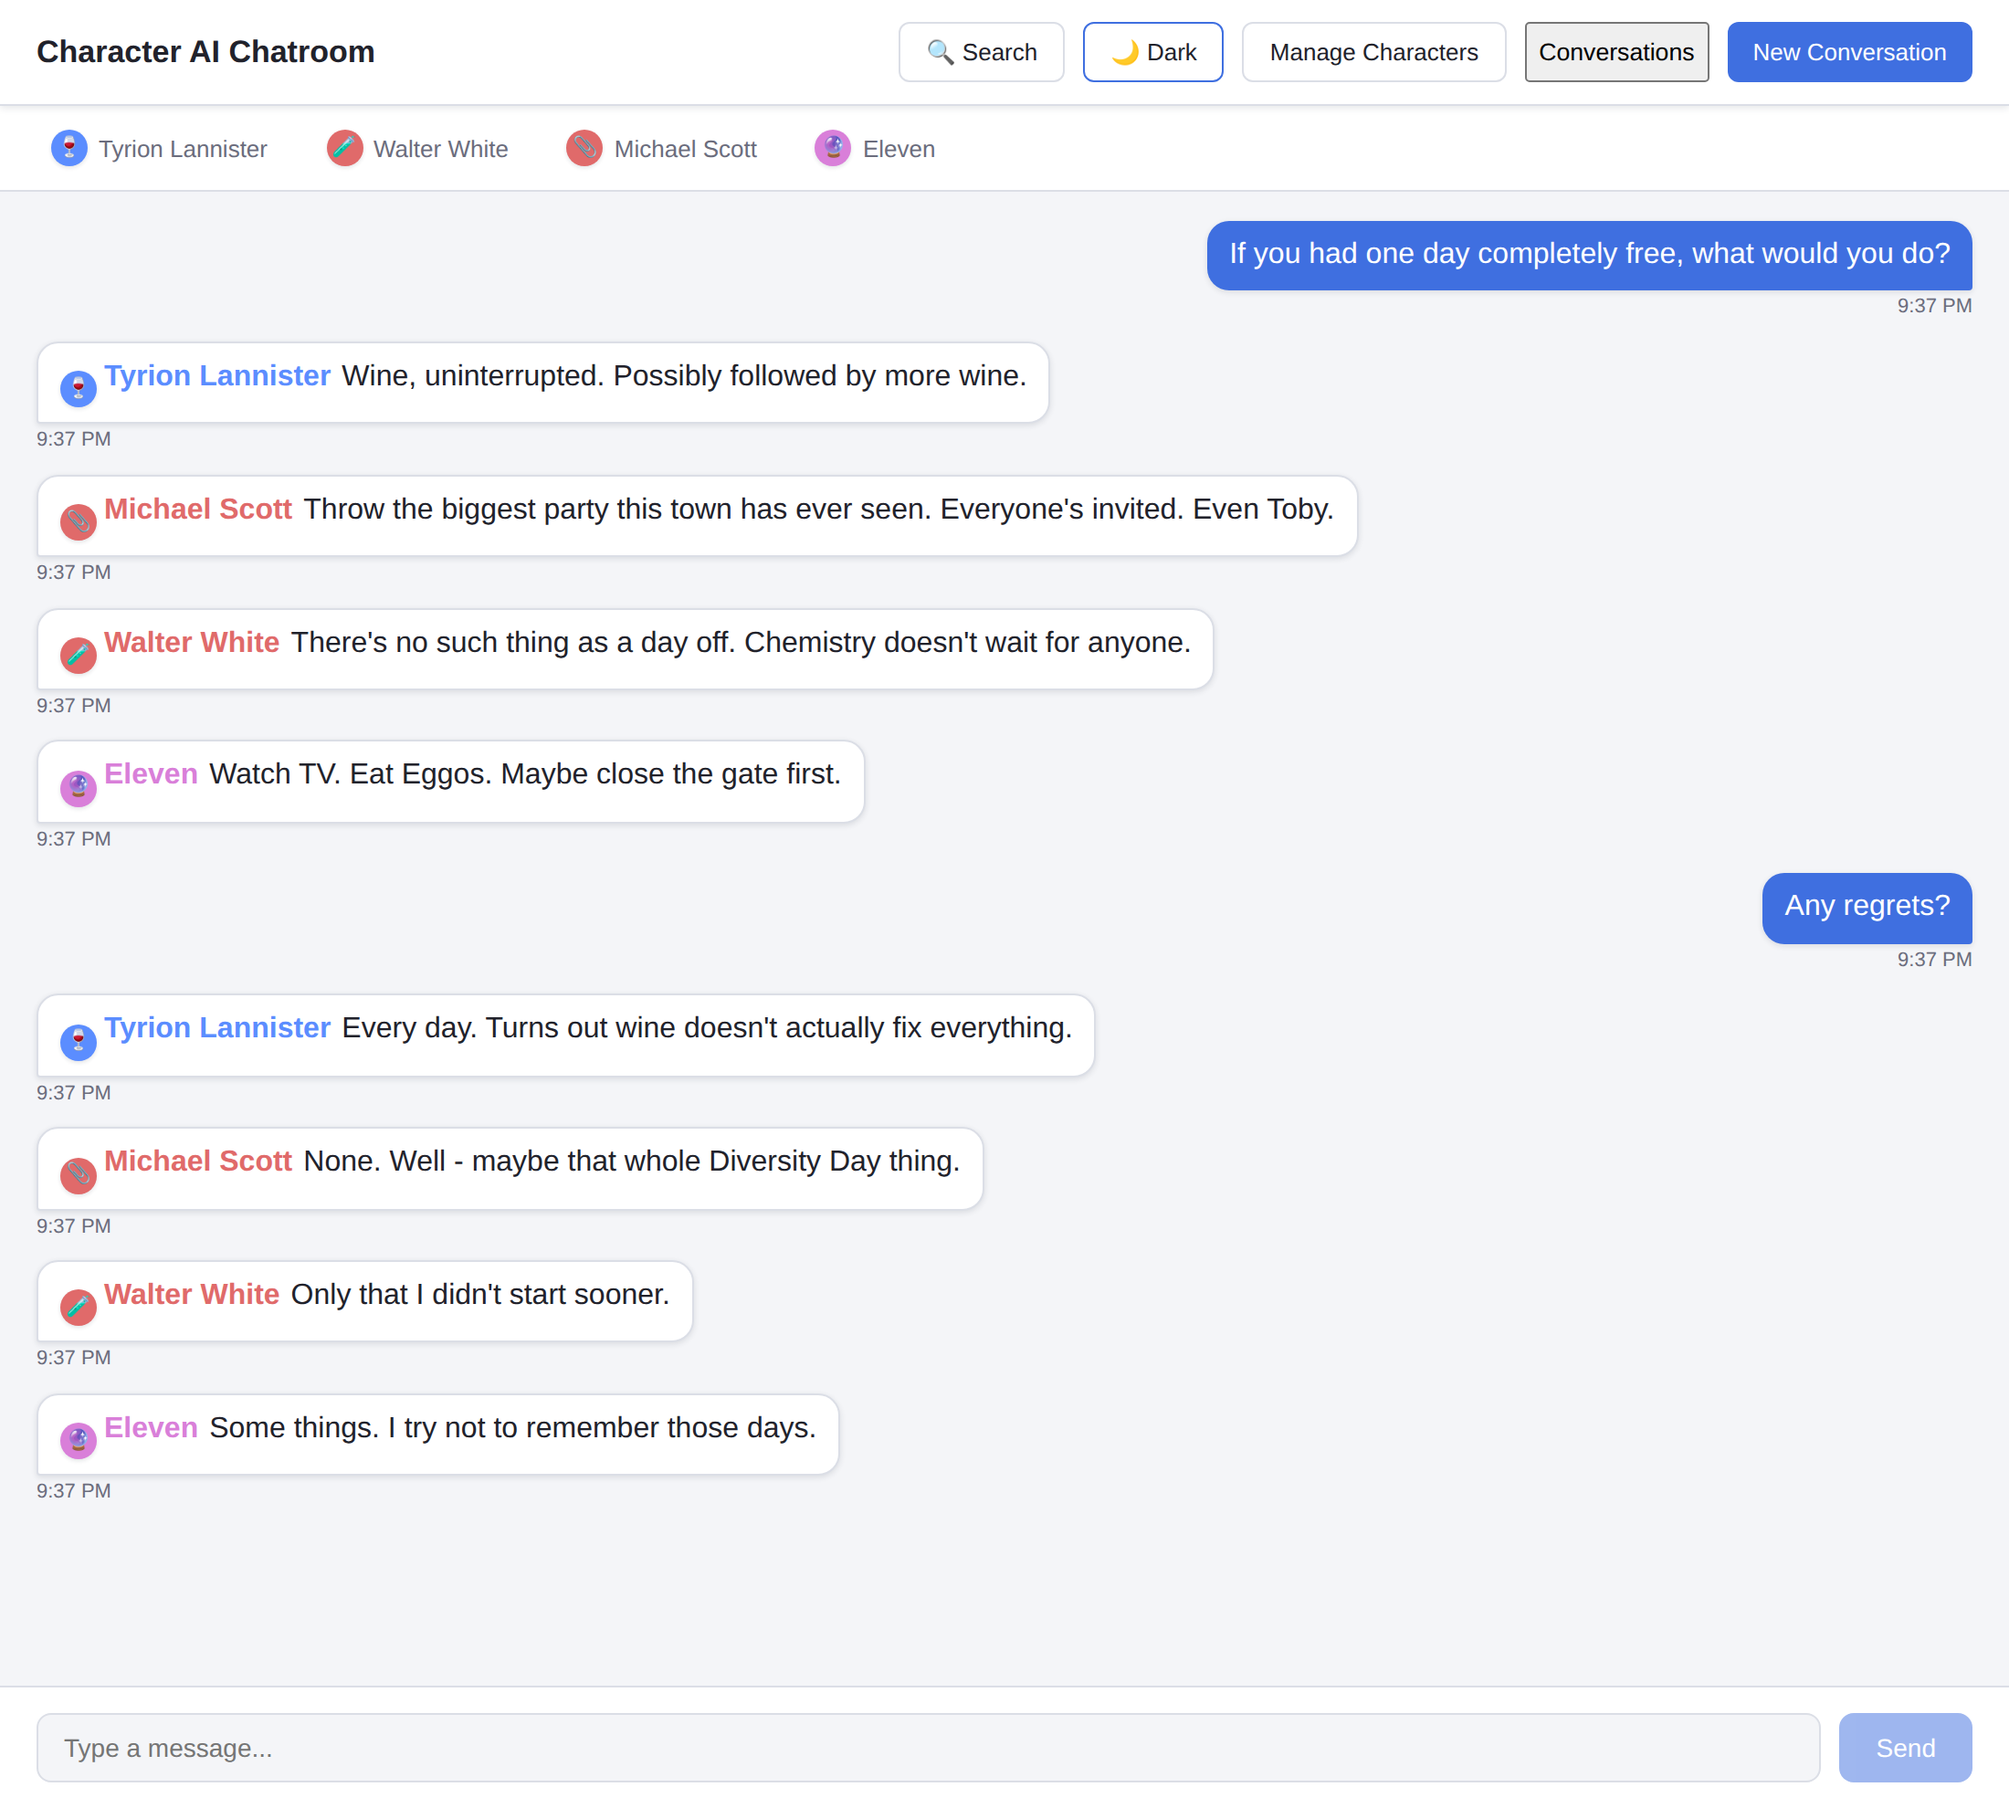
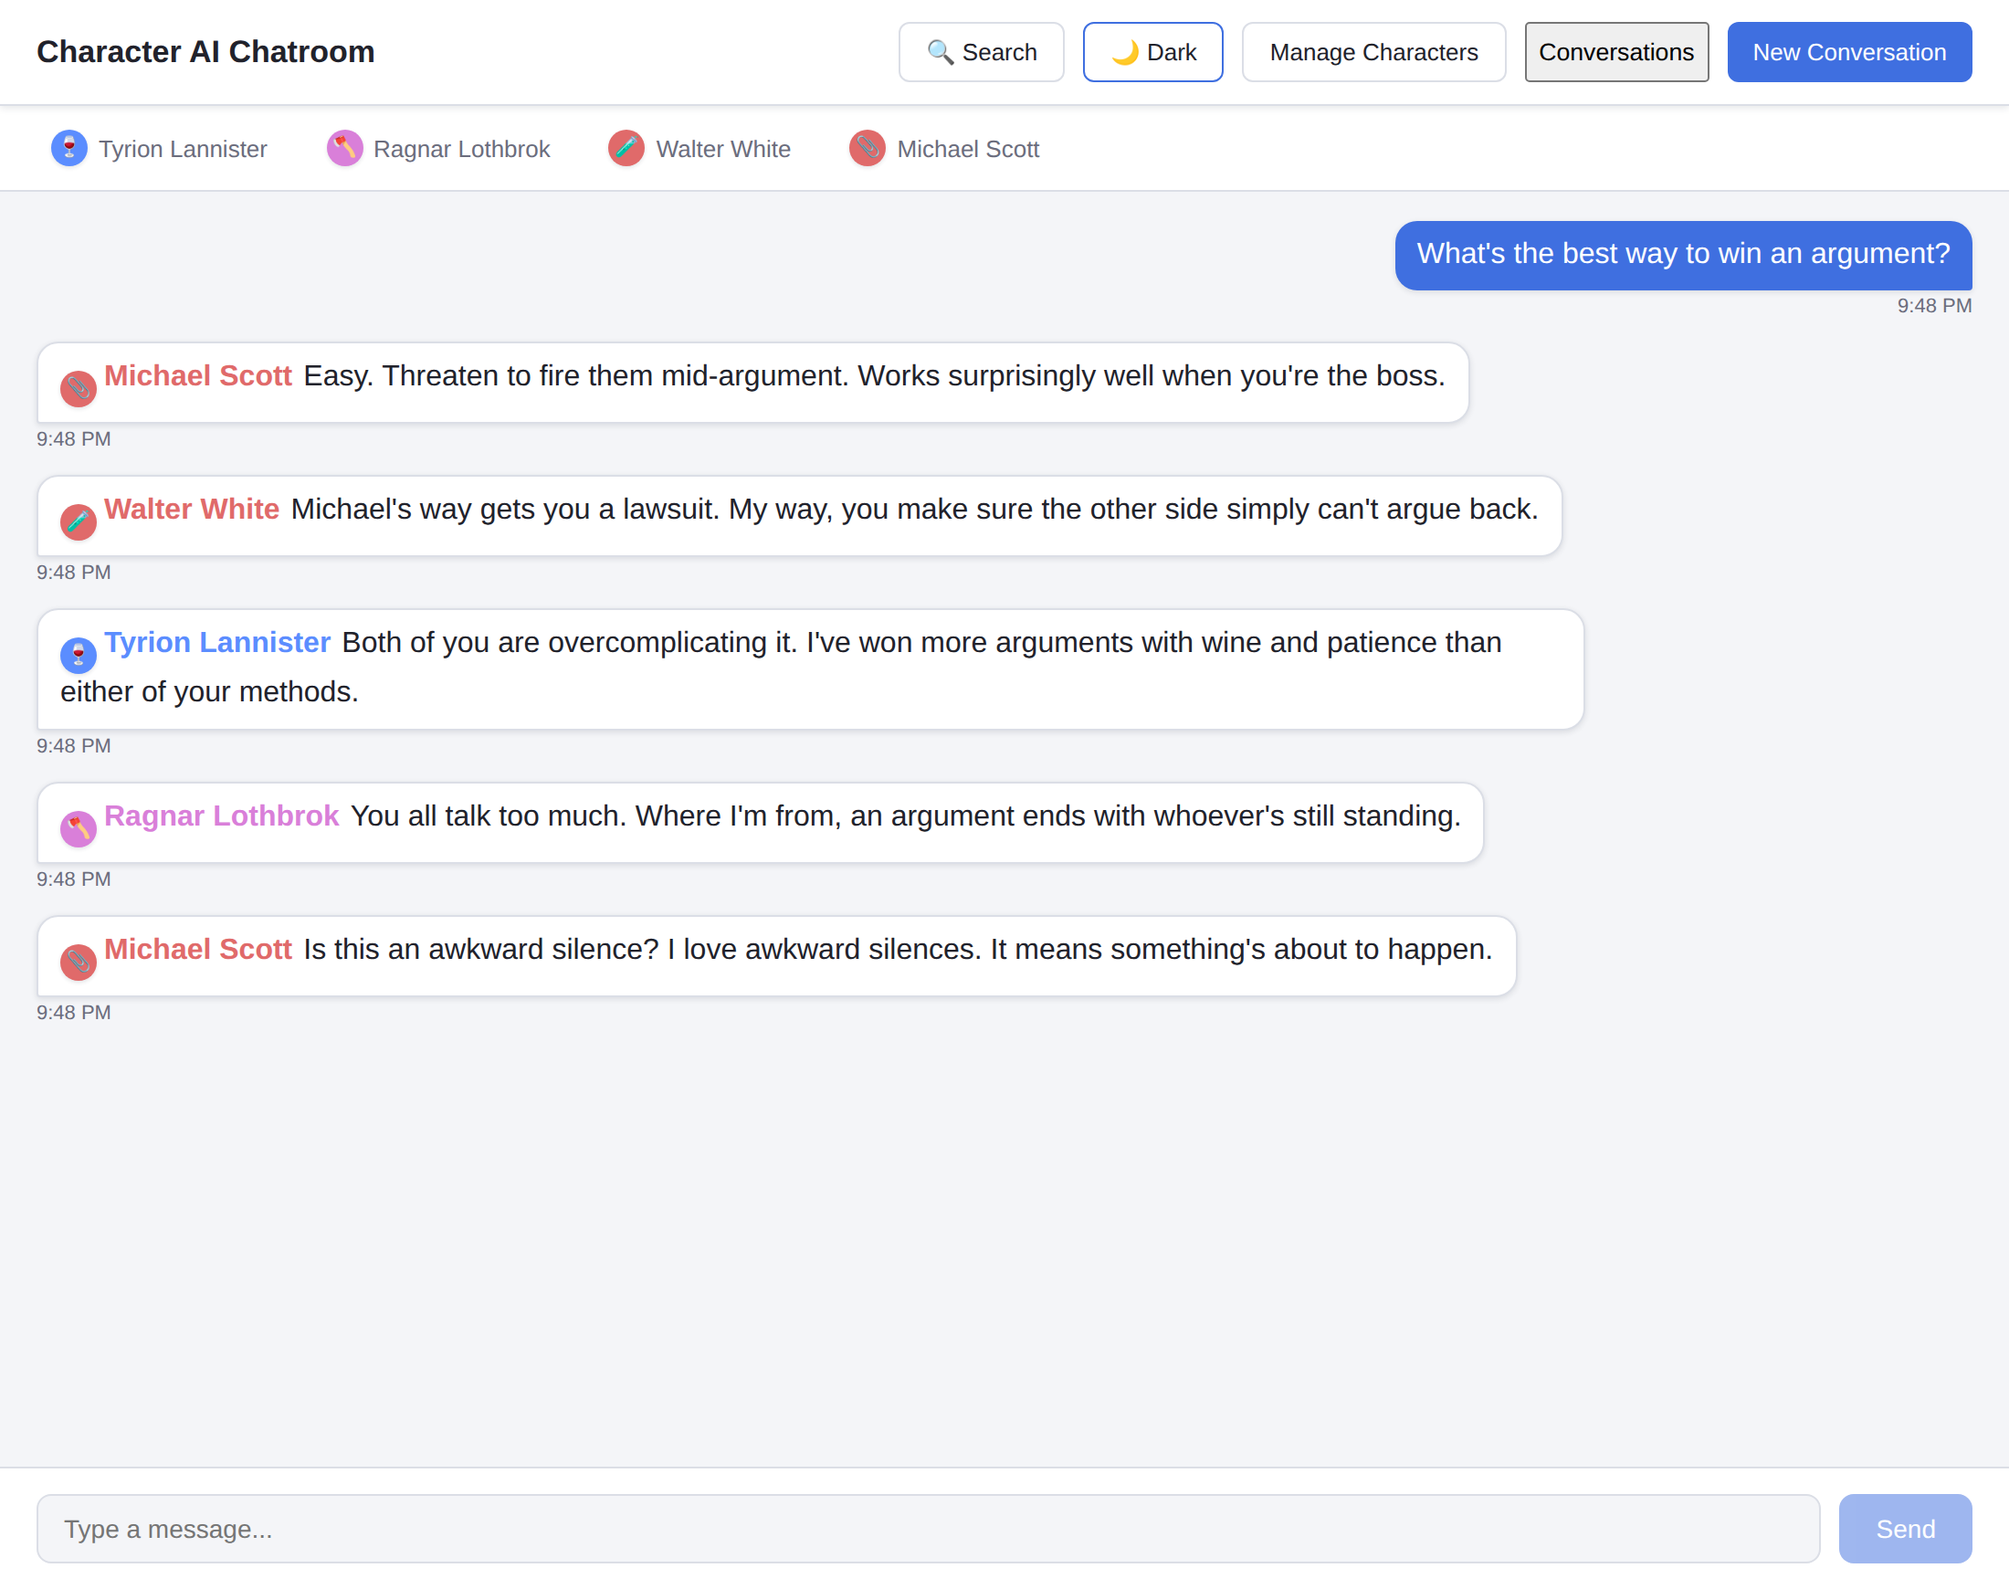
Rework README screenshots: characters replying to each other, idle chatter, and character management
Swaps Eleven out of the showcase cast for Ragnar Lothbrok and replaces
the "each character answers the user" screenshot with a scripted
back-and-forth where each reply explicitly addresses the one before it
(Walter references "Michael's way," Tyrion calls out "both of you,"
Ragnar dismisses "you all") - so the screenshot demonstrates characters
actually conversing with each other, not four independent answers to
the same prompt.

Adds two new screenshots for features that weren't shown before:
- screenshots/idle_chatter.png - the same conversation with Michael
  Scott spontaneously breaking the silence after the round ends, with
  no new message from the user - demonstrating the idle-chatter feature
  described in the "Characters can also speak up on their own" section.
- screenshots/manage_characters.png - the Manage Characters modal with
  Vikings expanded, showing Ragnar Lothbrok's entry and its Remove
  button (distinct from character_picker.png, which shows the New
  Conversation picker instead).

Regenerated search.png and light_theme.png against the same new
conversation/cast for consistency across all six images.

Captured by mocking the router and character-reply generation as
before (hand-written in-character lines for the banter round, a single
scripted idle line gated to fire only once despite the shortened
IDLE_MIN/MAX_SECONDS used to trigger it quickly for the screenshot),
driven with Playwright, with the viewport temporarily grown so the full
[…]

diff --git a/README.md b/README.md
@@ -6,13 +6,19 @@ Game of Thrones, Vikings, The Walking Dead, La Casa de Papel (Money Heist),
 Squid Game, Breaking Bad, Prison Break, Friends, The Simpsons, The Office,
 and Stranger Things.
 
-![Tyrion Lannister, Michael Scott, Walter White, and Eleven each answering the same two questions in their own distinct voice](screenshots/chat.png)
+![Michael Scott, Walter White, Tyrion Lannister, and Ragnar Lothbrok arguing with each other about the best way to win an argument, each responding directly to the previous speaker](screenshots/chat.png)
 
-*Four characters from four different shows, each staying completely in character - Tyrion reaches for wine, Walter talks chemistry, Michael tries to throw a party, and Eleven just wants Eggos.*
+*Four characters from four different shows, replying to each other, not just to you - Michael's HR-manager instinct, Walter's cold pragmatism, Tyrion calling out "both of you," and Ragnar dismissing the whole conversation, all in one exchange.*
+
+![The same conversation with Michael Scott spontaneously breaking the silence after nobody said anything for a while](screenshots/idle_chatter.png)
+
+*Leave a conversation open and idle for a while, and a character may occasionally speak up unprompted - no new message from you needed.*
 
 ![The New Conversation picker, showing all eleven shows as collapsible sections with Breaking Bad expanded](screenshots/character_picker.png)
 
-![Searching a conversation for "day" - five matching messages outlined, with a match counter and next/previous navigation](screenshots/search.png)
+![The Manage Characters modal with Vikings expanded, showing Remove buttons next to each character](screenshots/manage_characters.png)
+
+![Searching the conversation for "argument" - four matching messages outlined, with a match counter and next/previous navigation](screenshots/search.png)
 
 ![The same conversation in light theme](screenshots/light_theme.png)
 
